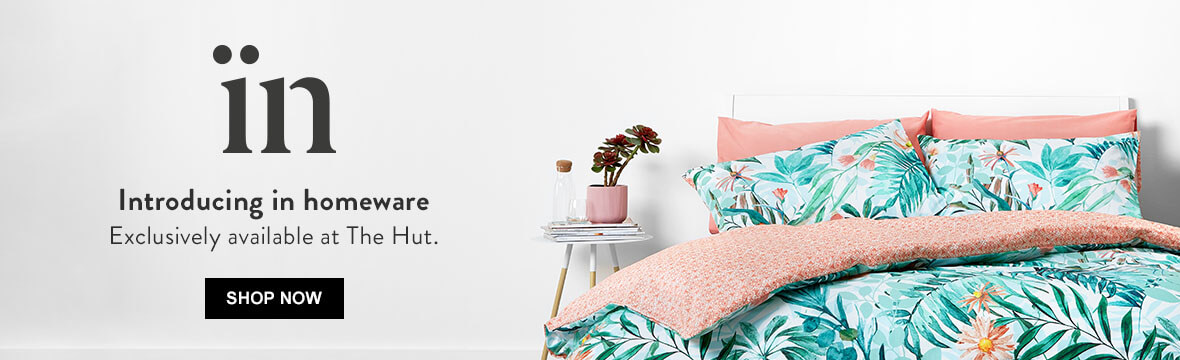
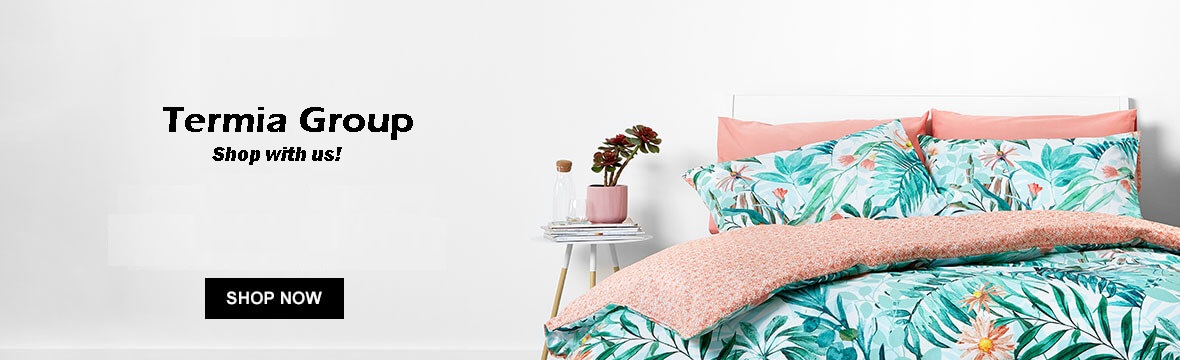
content cleanup

diff --git a/src/components/About/About.js b/src/components/About/About.js
@@ -17,10 +17,10 @@ export default function About (){
                 <div className="card-body h-100">
                   <h5 className="card-title about-card-title">our history</h5>
                   <p className="card-text about-card-text">
-                    The Hut was founded in 2004 as The Hut Group’s flagship website.
-                    We are a part of The Hut Group, which is one of Europe’s largest online retailers.
+                    Termia was founded in 2004 as Termia Group’s flagship website.
+                    We are a part of Termia Group, which is one of Europe’s largest online retailers.
                     Some of our sister websites include Myprotein, Zavvi, Coggles and Lookfantastic.
-                    At The Hut we select the finest products from the rest of our group, and use the specialist
+                    At Termia we select the finest products from the rest of our group, and use the specialist
                     knowledge from our other sites to help influence our luxury online department store.
                     Our home is in the North-West of England, and from this base we connect with our customers
                     all over the world.
@@ -34,7 +34,7 @@ export default function About (){
                 <div className="card-body">
                   <h5 className="card-title about-card-title">our brands</h5>
                   <p className="card-text about-card-text">
-                    Here at The Hut we are your one-stop online destination. We hand-pick our products
+                    Here at Termia we are your one-stop online destination. We hand-pick our products
                     to bring you the highest quality ranges each season, with hundreds of products lan
                     ding each month across fashion, homeware, health & beauty, electronics and gifts. We
                     have strong, long-standing relationships with our brands and work closely with them
@@ -97,7 +97,7 @@ export default function About (){
                   <h5 className="card-title about-card-title">contact us</h5>
                   <p className="card-text about-card-text">
                     Click here to speak to our customer services team.
-                    For all press and blogger enquiries please contact Partnerships@thehutgroup.com.
+                    For all press and blogger enquiries please contact Partnerships@termiagroup.com.
                   </p>
                 </div>
               </div>

diff --git a/src/components/Products/Products.js b/src/components/Products/Products.js
@@ -22,7 +22,7 @@ export default class Products extends Component {
               </div>
               <div className="description-container mb-3">
                   Update your wardrobe with our extensive range of men's clothing here at
-                  <Link to="/"> termia.md</Link>
+                  <Link to="/" className="main-link"> termia.com</Link>
                   . Here you'll discover a stylish range of clothing,
                   from hoodies and jumpers to jeans and jackets. Whether you're in need of some basics like t-shirts,
                   or new clothes from our Spring collection, you'll find Read More.
@@ -81,6 +81,15 @@ export default class Products extends Component {
 }
 
 const ProductsWrapper = styled.div`
+
+.main-link{
+  font-family: Helvetica Neue,Helvetica,Arial,sans-serif;
+  text-decoration:none;
+  color:#ccc;
+  line-height:1.2;
+  font-weight:600;
+  font-size:18px;
+}
 
 .pagination-sort{
   width:40%;

diff --git a/src/components/Navbar.js b/src/components/Navbar.js
@@ -10,7 +10,7 @@ export default function Navbar (){
       <nav className="navbar navbar-expand-sm navbar-dark fixed-top">
         <Link to="/" className="navbar-brand text-capitalize p-0 h-100">
           <img src="img/logo3.png" alt="logo" height="40px" width="40px"/>
-          <span className="ml-3">термия</span>
+          <span className="ml-3">termia</span>
         </Link>
         <button className="navbar-toggler ml-auto" data-toggle="collapse" data-target="#navbarCollapse">
           <span className="navbar-toggler-icon"></span>
